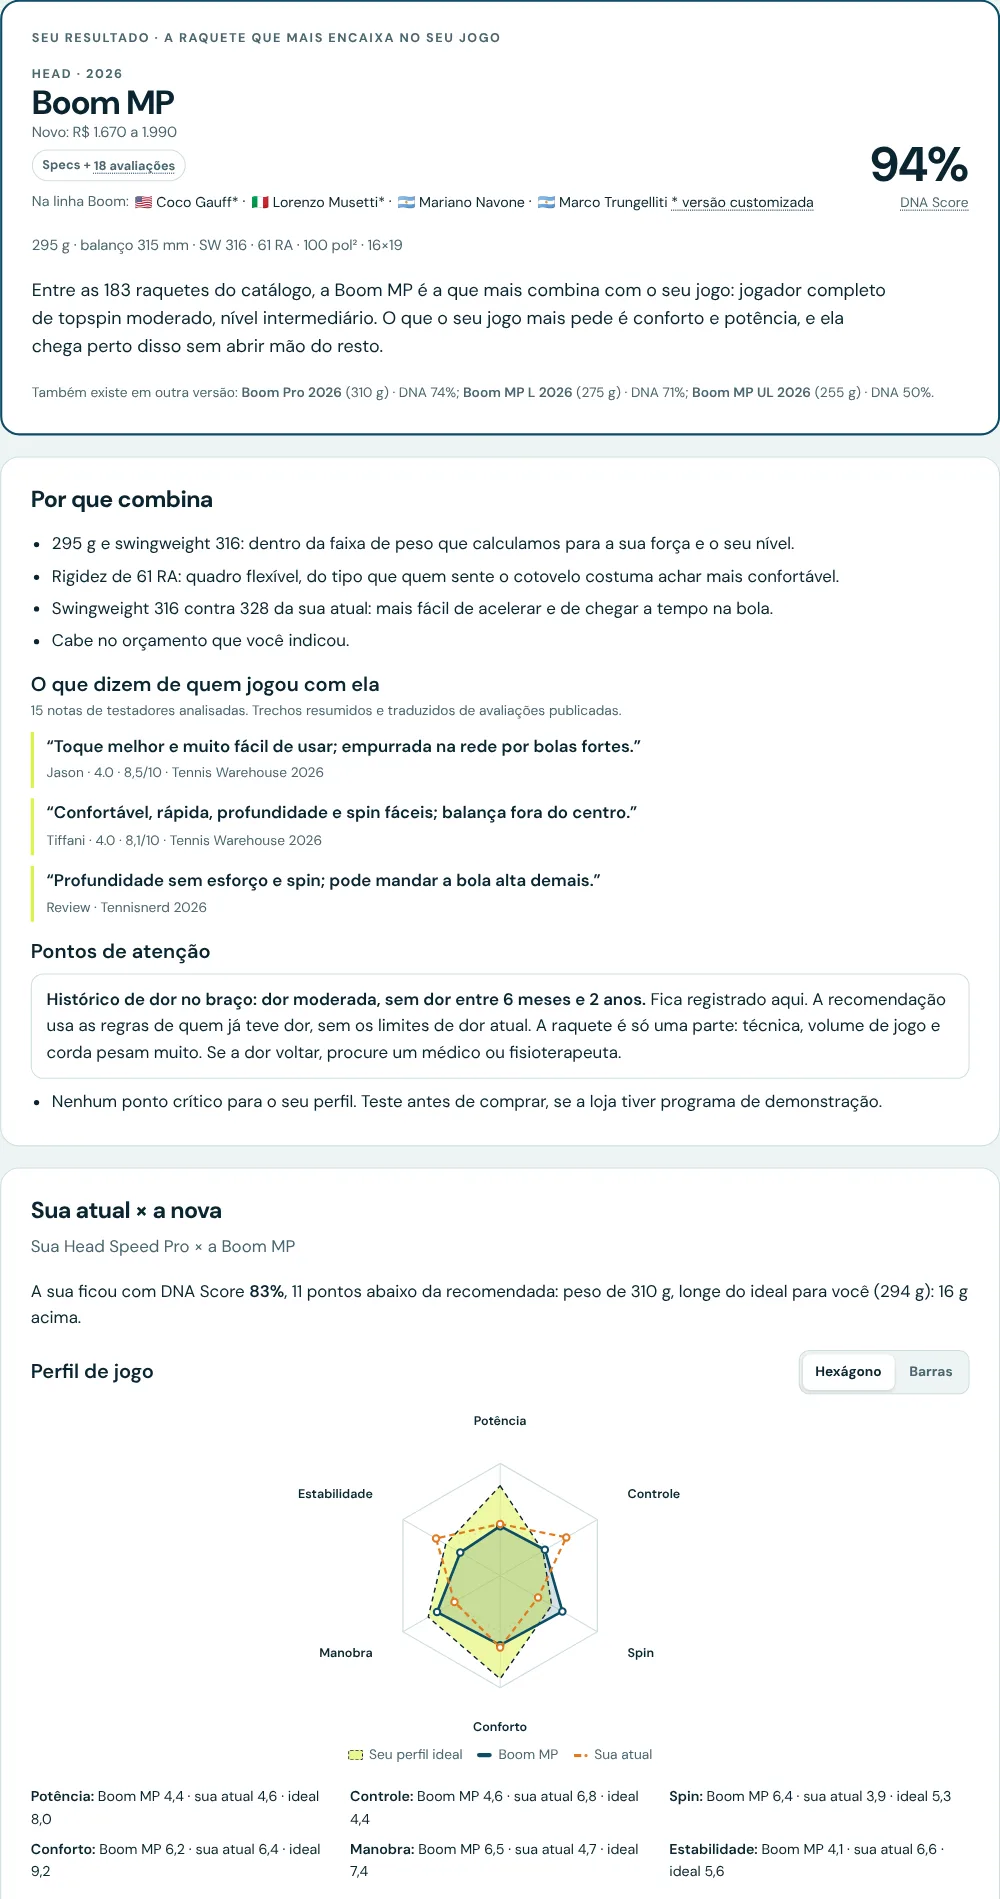
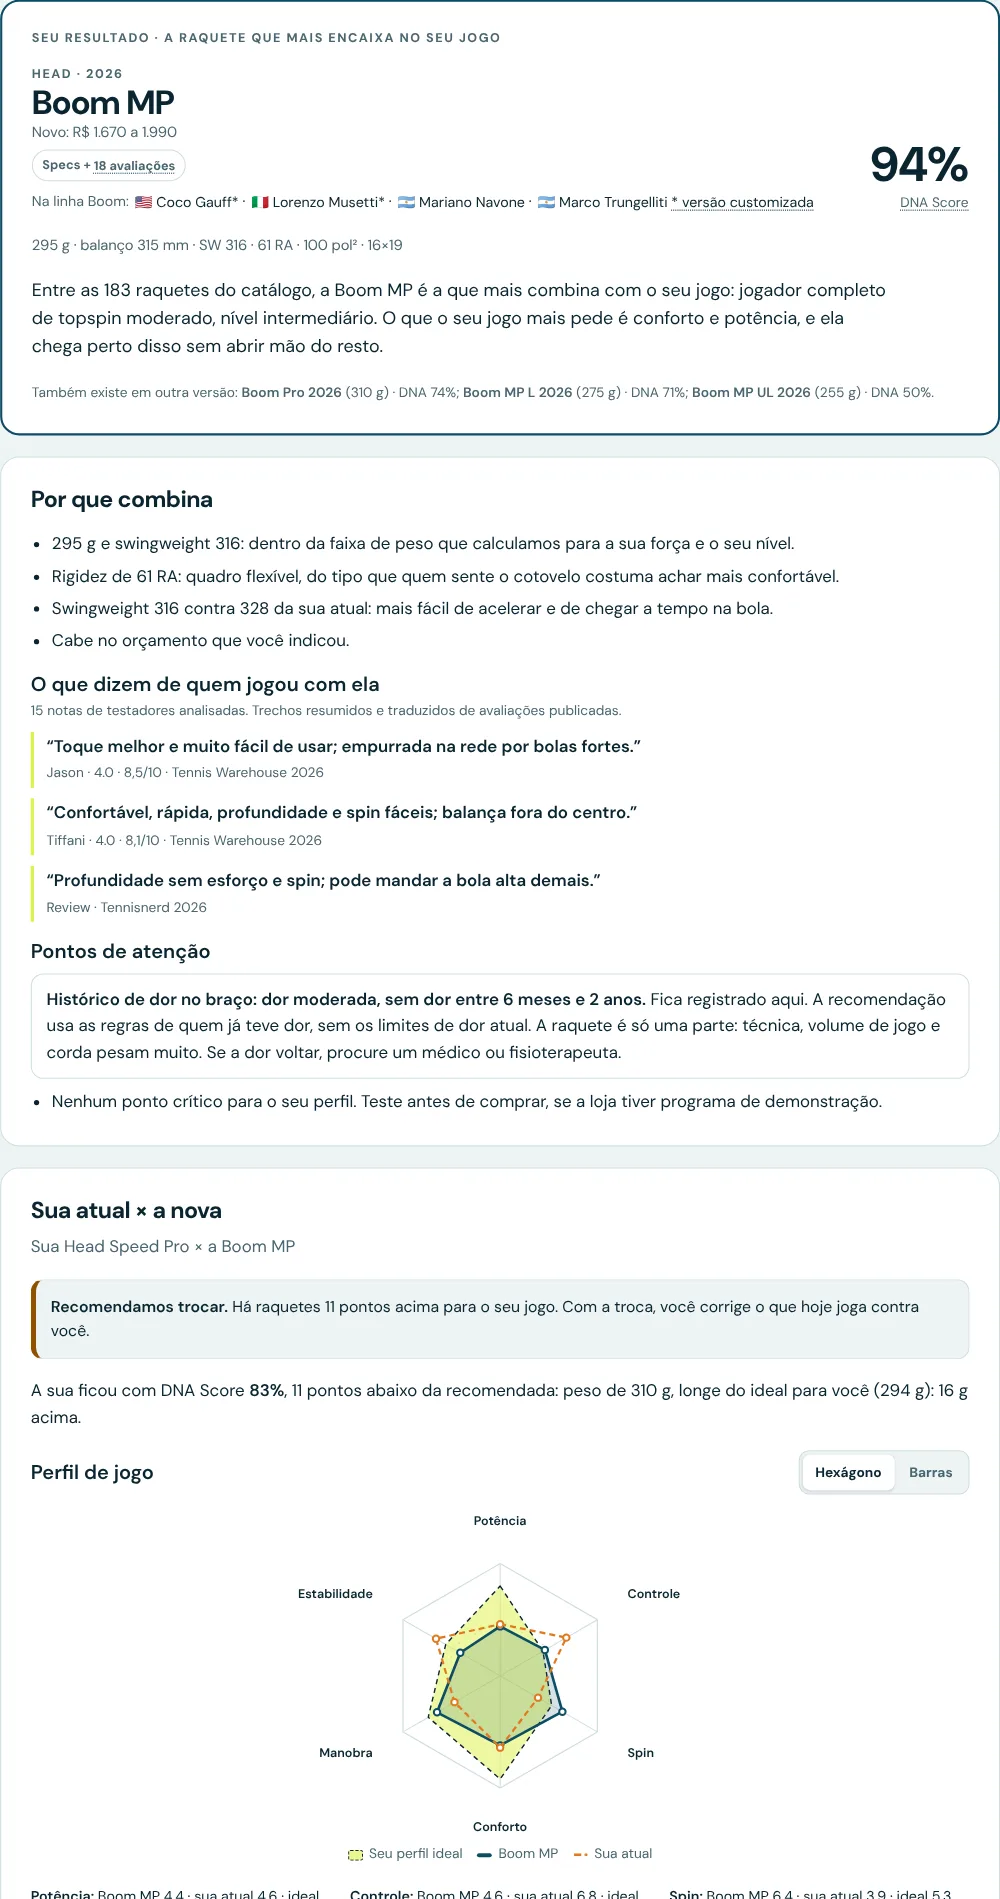
RACKET DNA rodada 17: o match da sua raquete grátis no topo da prévia
- Card da raquete atual no topo da prévia, com selo Grátis e destaque em
  lima; DNA Score visível e veredito (aderente / ajuste fino / trocar)
- Relatório: veredito em "Sua atual × a nova"; top 10 e mapa sempre à
  vista (seção própria); guia de compra recolhido
- T26 (veredito); axe 0 nos dois temas; imagem do exemplo refeita

Claude-Session: https://claude.ai/code/session_01FeT5v1rE5G5yAM5JWk7pgS

diff --git a/racket/index.html b/racket/index.html
@@ -269,6 +269,11 @@ td.n{font-family:var(--f-mono);font-variant-numeric:tabular-nums;white-space:now
 .share small{opacity:.85}
 .mini{display:grid;grid-template-columns:repeat(2,minmax(0,1fr));gap:14px}
 .mini .panel{gap:10px}
+.freecard{background:color-mix(in srgb,var(--ball) 16%,var(--surface));border:2px solid var(--ball)}
+.freecard .eyebrow,.freecard .note,.freecard .gl,.freecard .muted{color:var(--ink)}
+.freebadge{display:inline-block;background:var(--ball);color:var(--ball-ink);font-weight:800;font-size:12px;letter-spacing:.06em;text-transform:uppercase;border-radius:99px;padding:3px 10px;margin:0 0 8px}
+.verdict{border-radius:12px;padding:12px 14px;background:var(--surface);border:1px solid var(--line);border-left:5px solid var(--pri)}
+.verdict.v-fica{border-left-color:var(--ball)}.verdict.v-trocar{border-left-color:var(--warn)}
 .lock{border:1.5px dashed var(--line);border-radius:16px;padding:18px;display:flex;flex-direction:column;gap:10px;align-items:flex-start}
 .cmpsel{display:grid;grid-template-columns:minmax(0,1fr) auto minmax(0,1fr);gap:10px;align-items:center}
 .cmpsel select{width:100%}
@@ -1451,7 +1456,7 @@ function compute(){
   const conf=cl(Math.round(M.confBase+answered*M.confPorResposta+gap*M.confGap),M.confMin,M.confMax);
   return {T,tw,c,ranked,all,curFit,conf,answered,Z:ZZ};
 }
-if(/[?&]teste\b/.test(location.search))window.__RK={duelHTML,closeRacketFit,contaCaminhos,purgeHidden,A,Q,RK,compute,PESOS,idx,EXAMPLE,drawRacketCard,drawCard,stringSetup,painNote,cleanAnswers,familias,dorForte,penalties,zones,target,targetWeight};
+if(/[?&]teste\b/.test(location.search))window.__RK={duelHTML,closeRacketFit,verdictAtual,contaCaminhos,purgeHidden,A,Q,RK,compute,PESOS,idx,EXAMPLE,drawRacketCard,drawCard,stringSetup,painNote,cleanAnswers,familias,dorForte,penalties,zones,target,targetWeight};
 
 /* ---------- Análise ---------- */
 function runAnalysis(){
@@ -1588,13 +1593,14 @@ function diagnosis(free=true){
   if(A.why==='broken'&&curFit.fit>=ranked[0].fit-6)extra.push('Ela ainda combina bem com você. Uma nova do mesmo modelo seria uma troca segura; a recomendação mostra se há algo melhor.');
   if(A.why==='level'&&c.ix.control<T.control-1)extra.push('Para o seu nível atual, ela entrega menos controle do que o seu jogo pede.');
   const jn=l=>l.length>1?l.slice(0,-1).join(', ')+' e '+l[l.length-1]:l[0];
-  const fitHTML=free?mask(curFit.fit+'%'):curFit.fit+'%';
+  const fitHTML=curFit.fit+'%';const V=verdictAtual(curFit,ranked[0]);
   const gapTxt=gaps.map(x=>`${gl(x.k,LBL[x.k])}: ${dec(c.ix[x.k])} para um alvo de ${dec(T[x.k])}`);
-  const contra=(bad.length?bad:['Nada crítico: a troca é ajuste fino.']);
-  return `<div class="panel"><div class="phead"><div><p class="eyebrow">${free?'Grátis · metade do diagnóstico':'Diagnóstico'}</p><h3>A sua ${esc(c.name)}</h3></div><div style="text-align:right"><div class="fit" style="font-size:34px">${fitHTML}</div><span class="note">${gl('fit')} para você</span></div></div>
-  <div class="two"><div><p class="eyebrow" style="margin-bottom:6px">Onde ela acerta</p><p>${good.length?'Entrega o que você pede em '+jn(good)+'.':'Nenhum dos atributos que o seu jogo mais pede está no ponto.'}</p>${gaps.length?`<p class="eyebrow" style="margin:12px 0 6px">O que falta</p><p>${free?gapTxt.map(mask).join('<br>'):gapTxt.join('<br>')}</p>`:''}</div>
+  const contra=(bad.length?bad:['Nada crítico: a troca é ajuste fino']).map(x=>x.replace(/\.$/,''));
+  return `<div class="panel${free?' freecard':''}"><div class="phead"><div>${free?'<p class="freebadge">Grátis</p>':''}<p class="eyebrow">${free?'O match da sua raquete':'Diagnóstico'}</p><h3>A sua ${esc(c.name)}</h3></div><div style="text-align:right"><div class="fit" style="font-size:34px">${fitHTML}</div><span class="note">${gl('fit')} para você</span></div></div>
+  ${V?`<div class="verdict v-${V.k}"><strong>${V.t}.</strong> ${V.s}</div>`:''}
+  <div class="two"><div><p class="eyebrow" style="margin-bottom:6px">Onde ela acerta</p><p>${good.length?'Entrega o que você pede em '+jn(good)+'.':(f=>V&&V.k==='fica'?`Ela está perto do seu perfil no conjunto; os pontos fortes dela são ${f}.`:`Os pontos fortes dela são ${f}, mas nenhum dos atributos que o seu jogo mais pede está no ponto.`)(jn(KEYS.slice().sort((a,b)=>c.ix[b]-c.ix[a]).slice(0,2).map(k=>LBL[k].toLowerCase())))}</p>${gaps.length?`<p class="eyebrow" style="margin:12px 0 6px">O que falta</p><p>${free?gapTxt.map(mask).join('<br>'):gapTxt.join('<br>')}</p>`:''}</div>
   <div><p class="eyebrow" style="margin-bottom:6px">O que pesa contra</p><ul class="why">${contra.map((x,i)=>`<li>${free&&i>0?mask(x+'.'):x+'.'}</li>`).join('')}</ul></div></div>
-  ${extra.length?`<p class="muted">${extra.join(' ')}</p>`:''}${free?'<p class="note" style="margin:0">A nota da sua raquete e a outra metade do diagnóstico estão no relatório, junto com a comparação lado a lado.</p>':''}</div>`;
+  ${extra.length?`<p class="muted">${extra.join(' ')}</p>`:''}${free?'<p class="note" style="margin:0">O diagnóstico completo, com o que falta nela e a comparação lado a lado com a recomendada, está no relatório.</p>':''}</div>`;
 }
 /* Teste A/B (nov/2026): metade de quem chega pela primeira vez vê a ficha ideal grátis na prévia.
    FICHA_GRATIS_PCT = 50 roda o teste; 100 mostra a ficha para todos; 0 volta à prévia antiga para todos.
@@ -1627,7 +1633,7 @@ function fichaGratis(){
 function renderPreview(){
   const {ranked,conf,T,curFit,c}=RES;const top=ranked.slice(0,3);
   const BB=`<div class="backbar"><button class="btn btn-ghost btn-sm" type="button" data-back="quiz">← Voltar às respostas</button><button class="btn btn-ghost btn-sm" type="button" data-back="landing">Início</button></div>`;
-  $('#preview').innerHTML=BB+juniorNote()+painNote()+`
+  $('#preview').innerHTML=BB+juniorNote()+painNote()+diagnosis()+`
   <div class="panel">
     <div class="hook">
       <div style="display:flex;flex-direction:column;gap:14px;min-width:0">
@@ -1635,7 +1641,7 @@ function renderPreview(){
         <h2>Encontramos as 3 raquetes que mais combinam com o seu jogo.</h2>
         <p style="margin:0"><strong>O relatório completo inclui:</strong></p>
         <ul style="margin:0;padding-left:20px">
-          <li>Diagnóstico completo da sua raquete atual, quando informada.</li>
+          <li>Diagnóstico completo da sua raquete atual e a comparação com a nova, quando informada.</li>
           <li>Sugestão de corda, espessura e tensão.</li>
           <li>Comparador ilimitado para colocar as raquetes lado a lado.</li>
         </ul>
@@ -1656,7 +1662,7 @@ function renderPreview(){
       <div class="kpi"><b>${RK.length}</b><span>raquetes do catálogo comparadas com o seu jogo</span></div>
       <div class="kpi"><b>${top[0].r.nrev||'—'}</b><span>avaliações de testadores e sites sobre a 1ª</span></div>
       <div class="kpi"><b>${semRef()?`${RES.Z.wt[0]}–${RES.Z.wt[1]} g`:RES.tw+' g'}</b><span>${semRef()?'faixa para testar, sem corda':'peso ideal sem corda'}</span></div>
-      <div class="kpi"><b>${curFit?mask(curFit.fit+'%'):'—'}</b><span>${curFit?'DNA Score da sua atual':'informe a sua para comparar'}</span></div>
+      <div class="kpi"><b>${curFit?curFit.fit+'%':'—'}</b><span>${curFit?'DNA Score da sua atual':'informe a sua para comparar'}</span></div>
     </div>
   </div>`}
   <div class="panel">
@@ -1665,7 +1671,6 @@ function renderPreview(){
       <div style="display:flex;flex-direction:column;gap:10px"><p class="eyebrow">Seu DNA de jogo</p><h3>${esc(archetype())}</h3><p class="muted">Seu perfil de jogo em seis atributos, pronto para compartilhar. A raquete, a marca e a ficha técnica aparecem no relatório.</p><div class="row"><button class="btn btn-go" type="button" id="pvShare">Compartilhar</button><button class="btn btn-ghost" type="button" id="pvDl">Salvar card</button></div><div id="pvOut"></div></div>
     </div>
   </div>
-  ${diagnosis()}
   <div class="panel">
     <div class="single">
       <p class="eyebrow">Um relatório, tudo incluído</p>
@@ -1870,6 +1875,15 @@ function diffMao(a,b){const d=[];
   if(a.pat!==b.pat&&OPEN[a.pat]!=null&&OPEN[b.pat]!=null&&OPEN[a.pat]!==OPEN[b.pat])d.push(OPEN[b.pat]>OPEN[a.pat]?`padrão ${b.pat.replace('x','×')} mais aberto, com mais spin`:`padrão ${b.pat.replace('x','×')} mais fechado, com mais controle`);
   return d}
 const jnE=l=>l.length>1?l.slice(0,-1).join(', ')+' e '+l[l.length-1]:l[0];
+/* rodada 17: veredito da raquete atual (grátis na prévia e no relatório).
+   Aderente: 90%+ e até 3 pontos da 1ª (troca só por sensação). Ajuste fino: 85%+ e até 8 pontos. Abaixo disso: trocar. */
+function verdictAtual(current,best){
+  if(!current||!best)return null;const gap=Math.max(0,best.fit-current.fit);
+  if(current.fit>=90&&gap<=3)return {k:'fica',t:'Sua raquete está aderente ao seu jogo',s:`Ela já é uma das melhores para você${gap?`: só ${gap} ${gap>1?'pontos':'ponto'} abaixo da 1ª colocada`:', empatada com a 1ª colocada'}. Trocar só se quiser uma sensação diferente.`};
+  /* sem nada pesando contra (só distância de perfil), não mandamos trocar: é ganho fino */
+  if((current.fit>=85&&gap<=8)||(!(current.pen||[]).some(p=>p[0]>=1)&&current.fit>=80))return {k:'fino',t:'Ela atende bem; trocar é ajuste fino',s:`Há raquetes até ${gap} pontos acima para o seu jogo. Vale trocar se ela já está gasta ou se você quer ${(current.pen||[]).some(p=>p[0]>=1)?'resolver o que pesa contra ela':'chegar mais perto do seu perfil ideal'}.`};
+  return {k:'trocar',t:'Recomendamos trocar',s:`Há raquetes ${gap} pontos acima para o seu jogo. Com a troca, você corrige o que hoje joga contra você.`};
+}
 function closeRacketFit(current,best){
   if(!current||current.fit<90||best.fit-current.fit>3)return '';
   const a=current.r,b=best.r,d=diffMao(a,b),jn=jnE;
@@ -1899,7 +1913,7 @@ function renderReport(){
   const series=[{name:'Seu perfil ideal',v:T,c:'var(--ink)',ideal:true},{name:r.model,v:r.ix,c:'var(--pri)',solid:true}];
   if(c)series.push({name:'Sua atual',v:c.ix,c:'var(--cur)',dash:true});
   const cmpName=c?'Atual × nova':'Perfil × nova';
-  const chips=[['r-res','Resultado'],['r-por','Por que combina'],['r-atual',cmpName]].concat(full?[['r-alt','Alternativas'],['r-cmp','Comparador'],['r-guia','Guia de compra']]:[]).concat([['r-dna','Seu DNA'],['r-ficha','Ficha técnica']]);
+  const chips=[['r-res','Resultado'],['r-por','Por que combina'],['r-atual',cmpName]].concat(full?[['r-alt','Alternativas'],['r-top','Top 10 e mapa'],['r-cmp','Comparador'],['r-guia','Guia de compra']]:[]).concat([['r-dna','Seu DNA'],['r-ficha','Ficha técnica']]);
   const PDFB=full?'<button class="btn btn-go btn-sm" type="button" data-pdf style="margin-left:auto">Baixar PDF</button>':'';
   let h=`<div class="rbar"><div class="backbar">${ex?'<button class="btn btn-ghost btn-sm" type="button" data-mytest>Fazer o meu teste</button>':'<button class="btn btn-ghost btn-sm" type="button" data-back="preview">← Voltar à prévia</button>'}<button class="btn btn-ghost btn-sm" type="button" data-back="landing">Início</button>${PDFB}</div>
   <nav class="rchips" aria-label="Seções do relatório">${chips.map(([id,t])=>`<a href="#${id}">${t}</a>`).join('')}</nav></div>`;
@@ -1919,21 +1933,22 @@ function renderReport(){
   /* 4. Sua atual × a nova (sem a atual: o seu perfil ideal × a recomendada) */
   h+=`<section class="panel" id="r-atual"><h2 class="sec">${c?'Sua atual × a nova':'Seu perfil × a nova'}</h2>
     <p class="muted" style="margin-top:-8px">${c?`Sua ${esc(c.name)} × a ${esc(r.model)}`:`O seu perfil ideal × a ${esc(r.model)}. Informe a sua raquete no teste para ver a comparação com ela.`}</p>
+    ${c&&curFit?(V=>V?`<div class="verdict v-${V.k}"><strong>${V.t}.</strong> ${V.s}</div>`:'')(verdictAtual(curFit,w)):''}
     ${c&&curFit&&!fitNote?`<p>A sua ficou com DNA Score <strong>${curFit.fit}%</strong>, ${w.fit-curFit.fit} pontos abaixo da recomendada${curFit.pen.length?': '+curFit.pen.slice(0,2).map(p=>p[1].charAt(0).toLowerCase()+p[1].slice(1)).join('; ')+'.':'.'}</p>`:''}
     ${viz('rp',series,T,r.ix,c?c.ix:null)}
     ${c?`<h3>O que você vai sentir</h3><table class="stack"><thead><tr><th scope="col">Item</th><th scope="col">Atual</th><th scope="col">Nova</th><th scope="col">O que você vai sentir</th></tr></thead><tbody>${feel(r,c).map(x=>`<tr><td>${x[0]}</td><td class="n" data-label="Atual">${x[1]}</td><td class="n" data-label="Nova">${x[2]}</td><td class="full">${x[3]}</td></tr>`).join('')}</tbody></table>`:''}
   </section>`;
   if(full){
-    /* 5. Alternativas: 2º e 3º à vista; ranking e mapa recolhidos */
+    /* 5. Alternativas: 2º e 3º à vista; 5b. top 10 e mapa sempre à vista (rodada 17) */
     const top3=ranked.slice(0,3);
     h+=`<section class="panel" id="r-alt"><h2 class="sec">Alternativas</h2>
       <div class="altl">${ranked.slice(1,3).map((x,i)=>`<div class="altc"><div style="min-width:0"><p class="eyebrow">${i+2}º lugar · ${esc(x.r.brand)}${x.r.year?' · '+x.r.year:''}</p><h3>${esc(x.r.model)}</h3><p class="mono specline">${x.r.wt} g · SW ${x.r.sw} · ${x.r.ra} RA · ${x.r.head} pol² · ${x.r.pat.replace('x','×')}</p><p class="note" style="margin-top:2px">Novo: ${precoTxt(x.r)} ${brTag(x.r)}</p><div class="pcs">${tradeChips(x,top3)}</div></div><div style="text-align:right"><div class="fit">${x.fit}%</div><span class="note">DNA Score</span></div></div>`).join('')}</div>
-      <details class="more"><summary>Ver o ranking dos 10 e o mapa do catálogo</summary>
+      </section><section class="panel" id="r-top"><h2 class="sec">Top 10 e mapa do catálogo</h2>
         <h3 style="margin-bottom:10px">Ranking dos 10 melhores</h3>
         <div class="rank">${(()=>{const list=ranked.slice(0,10);if(curFit&&!list.includes(curFit))list.push(curFit);return list.sort((a,b)=>b.fit-a.fit).map(x=>`<div class="rk${x===w?' win':''}${curFit&&x===curFit?' cur':''}"><span class="pos" style="font-size:14px">${curFit&&x===curFit?'—':ranked.indexOf(x)+1}</span><div class="nm"><i style="width:${x.fit}%"></i><span>${esc(x.r.name)}${curFit&&x===curFit?' (sua)':''}${x.r.br==='d'?' · importada':''}${altsTag(x)}</span></div><b>${x.fit}%</b></div>`).join('')})()}</div>
         <div class="phead" style="margin-top:22px"><h3>Mapa do catálogo</h3><span class="note">Peso × swingweight · passe o dedo nos pontos</span></div>${scatter(r,c,Z,ranked.slice(0,10))}
         <p class="note">Cada ponto é uma das ${RK.length} raquetes do catálogo. Os números são o seu top 10, na ordem do ranking.${c?' O anel laranja é a sua atual.':''}</p>
-      </details></section>`;
+      </section>`;
     /* 6. Comparador (recolhido) */
     h+=`<section id="r-cmp" aria-label="Comparador"><details class="panel cmpbox" id="cmp"><summary class="cmpsum"><span class="vsbadge" aria-hidden="true">VS</span><span class="cmptxt"><b>Comparar duas raquetes</b><span>A recomendada contra a sua ou contra qualquer outra das ${RK.length}, atributo por atributo, com o DNA Score de cada uma.</span></span><span class="cmpgo" aria-hidden="true">Comparar</span></summary>
       <div class="cmpsel"><select id="cmpA" aria-label="Raquete A"${ex?' disabled':''}>${optList(r.id)}</select><span class="vs">VS</span><select id="cmpB" aria-label="Raquete B"${ex?' disabled':''}>${optList(c?c.id:ranked[1].r.id)}</select></div>${ex?`<p class="note">No exemplo, a comparação fica fixa. No seu relatório, você compara quaisquer duas das ${RK.length}.</p>`:''}
@@ -1941,7 +1956,8 @@ function renderReport(){
     /* 7. Guia de compra: corda e tensão + grip */
     const polyTip=A.string==='poly'&&A.arm!=='no'&&!/Poliéster perde/.test(st.rs);
     const strRow=(x,label,s2)=>`<tr><td class="wide">${label}</td><td class="wide" data-label="Corda">${s2.s}</td><td class="n" data-label="Tensão">${s2.lb[0]} a ${s2.lb[1]} lb<br>${s2.kg[0]} a ${s2.kg[1]} kg</td><td data-label="Trocar">${s2.swap||'—'}</td></tr>`;
-    h+=`<section class="panel" id="r-guia"><h2 class="sec">Guia de compra</h2>
+    /* rodada 17: guia de compra recolhido (abre no clique); top 10 e mapa ficam sempre à vista */
+    h+=`<section class="panel" id="r-guia" aria-labelledby="h-guia"><details class="fold"><summary><span><h2 id="h-guia" class="sec">Guia de compra</h2><small>Corda, tensão e grip para a nova${c?' e para a sua':''}</small></span></summary><div class="foldin">
       <div style="display:flex;flex-direction:column;gap:12px"><h3>Sugestão de corda e tensão</h3><p class="note" style="margin-top:-6px">Ponto de partida, não regra: corda é gosto pessoal. Use a sugestão no primeiro encordoamento e ajuste pela sensação.</p>
       <table class="stack"><thead><tr><th scope="col">Para</th><th scope="col">Corda</th><th scope="col">Tensão</th><th scope="col">Trocar</th></tr></thead><tbody>
       ${strRow(r,esc(r.model)+' (nova)',st)}${c?strRow(c,esc(c.model)+' (a sua)',stringSetup(c)):A.cur==='other'?strRow(null,'A sua (fora do catálogo)',stringSetup(QUADRO_MEDIO)):''}
@@ -1955,7 +1971,7 @@ function renderReport(){
       <p>Com a mão aberta, meça em centímetros da linha do meio da palma até a ponta do dedo anelar.</p>
       <div class="tbl"><table style="min-width:0"><thead><tr><th>Medida da mão</th><th>Grip</th></tr></thead><tbody>
       ${[['até 10,6 cm','L1 · 4 1/8'],['10,7 a 10,9 cm','L2 · 4 1/4'],['11,0 a 11,2 cm','L3 · 4 3/8'],['11,3 a 11,5 cm','L4 · 4 1/2'],['11,6 cm ou mais','L5 · 4 5/8']].map(x=>`<tr><td>${x[0]}</td><td class="n">${x[1]}</td></tr>`).join('')}</tbody></table></div>
-      <ul class="why"><li>Na loja: segurando a raquete, o dedo indicador da outra mão deve caber entre a ponta dos seus dedos e a base da palma.</li><li>Entre dois tamanhos, escolha o menor e complete com overgrip: cada overgrip engrossa cerca de meio número.</li></ul></div></section>`;
+      <ul class="why"><li>Na loja: segurando a raquete, o dedo indicador da outra mão deve caber entre a ponta dos seus dedos e a base da palma.</li><li>Entre dois tamanhos, escolha o menor e complete com overgrip: cada overgrip engrossa cerca de meio número.</li></ul></div></div></details></section>`;
   }else{
     h+=`<div class="lock"><h3>2º e 3º lugares, mapa, ranking, comparador e corda</h3><p class="muted">As alternativas, o mapa peso × swingweight do catálogo, o ranking dos 10, o comparador livre e a corda e tensão para a nova e para a sua fazem parte do relatório completo, que também sai em PDF A4.</p><button class="btn btn-go" type="button" id="up">Liberar por R$ 19,99</button></div>`;
   }

diff --git a/docs/racket/calibracao-reviews.md b/docs/racket/calibracao-reviews.md
@@ -5,6 +5,35 @@
 - Atletas: 45 de 58 raquetes com profissionais por linha. Incluídos nesta rodada: Dunlop CX (Mérida, Brooksby, Jamie Murray, Santamaria), Dunlop SX (Vallejo), Prince Tour (Pouille, customizada). Sem profissional confirmado: Clash, Shift, Instinct, Ti S6, Boost Drive, ProKennex, Phantom, Ripstick. Burn (Pavlyuchenkova) ficou de fora por fonte fraca (jan/2025).
 - Comparação com o Tennis Engineer no mesmo perfil (intermediário, cotovelo, Pure Strike 98): o top 3 deles (Shift 99, Extreme MP, Percept 100, todas 66–67 RA) fica entre 16º e 37º no nosso, por causa da dor no cotovelo; os dois motores concordam que vale trocar a Pure Strike.
 
+## Rodada 17: o match da sua raquete grátis (nov/2026)
+
+**Pedido do Gui.** Destacar na prévia grátis o resultado da raquete atual, para anúncios do tipo "teste o match da sua raquete" (meio de funil). No relatório, deixar o top 10 e o mapa sempre à vista e recolher o guia de compra.
+
+**Prévia (grátis):**
+- O card da raquete atual vai para o topo, com o selo "Grátis" e destaque em lima.
+- O DNA Score da atual fica visível; antes era mascarado. O mesmo vale para o KPI da prévia.
+- Veredito novo (`verdictAtual`):
+
+| Veredito | Quando |
+|---|---|
+| Aderente: trocar só se quiser outra sensação | 90% ou mais e até 3 pontos da 1ª |
+| Ajuste fino | 85% ou mais e até 8 pontos; ou nada pesando contra e 80% ou mais |
+| Recomendamos trocar | o resto |
+
+- Continua grátis: onde ela acerta e o 1º ponto contra.
+- Fica para o relatório: o que falta e os demais pontos contra.
+
+**Relatório:**
+- O veredito aparece também em "Sua atual × a nova".
+- "Top 10 e mapa do catálogo" vira uma seção própria, sempre aberta, com atalho no menu.
+- O guia de compra fica recolhido; o atalho do menu abre a seção.
+
+**Testes:**
+- Regressão 26/26 (T26 novo: veredito); casos-guia 15/15.
+- Questionário completo sem erro.
+- Axe 0 violações na prévia, com os três vereditos nos dois temas, e no relatório do exemplo. O texto cinza dentro do card lima passou para a cor do texto principal, por contraste no tema escuro.
+- Imagem `assets/reports/racket.webp` refeita: o veredito aparece em "Sua atual × a nova".
+
 ## Rodada 16: lote 3 de reviews (ChatGPT, 15–16/11/2026)
 
 **O que entrou.** 5 partes, 148 linhas de 96 raquetes (`docs/racket/dados/reviews/bruto/lote3-*`, imutáveis). O importador `racket/tools/reviews.py` passa a ler o formato de 20 colunas.
